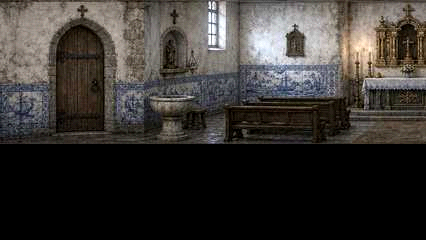
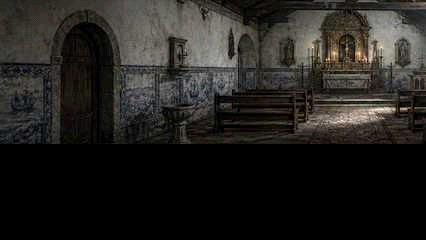
exp(#838): regenerate the remaining eight plates in the new art direction
Three grouped generations, not four -- the gate and the flat praca are
retired, so their groups are gone rather than left to rot.

Every door and every NPC is re-placed against what is actually painted:
Market Row's steps to the backstreet and its arched workshop door now sit
where the art puts them, and the weaponsmith no longer stands 0.86 from the
street's east end. The Quay's road out moved to its east end, because the
new art puts the water at the west -- the screen is a dead end at the water,
which is the point of it, and it was widened to 600 so the pub door is not
crowded against the road.

The Pub is the first screen with a real step across the walking line: the
tables are on the low floor by the door and the bar stands on a platform up
a short flight, so the floor profile authored earlier finally has art to
describe. Verified with the bounds overlay -- the player and the owner both
stand on the raised level.

One stale assertion fixed rather than papered over: the seam test asked the
Quay's WEST edge for a doorway, which the water end no longer has. It now
asserts both halves, including that the quay still runs out at the water.

diff --git a/tools/towngen/build_town.py b/tools/towngen/build_town.py
@@ -132,26 +132,26 @@ SCREENS = {
         id=18, title="St. Maria - Market Row", plate="market_bg.png",
         intro="Awnings sag with the morning's rain. Most of the stalls are already empty.",
         screen_y=136, music="town1",
-        npcs=[("auctioneer", "Auctioneer", "npc_auctioneer", 120),
-              ("yukio", "Yukio", "npc_yukio", 250),
-              ("euler", "Euler", "npc_euler", 430),
-              ("scholar", "Scholar", "npc_scholar", 560)],
+        npcs=[("auctioneer", "Auctioneer", "npc_auctioneer", 200),
+              ("yukio", "Yukio", "npc_yukio", 300),
+              ("euler", "Euler", "npc_euler", 350),
+              ("scholar", "Scholar", "npc_scholar", 640)],
         doors=[
             ("west_praca", "The Praca", 17, "east_market", 40, None),
-            ("back_steps", "The Backstreet", 26, "market_steps", 400, None),
-            ("smith_door", "Weaponsmith", 20, "exit_door", 690, None),
-            ("east_quay", "The Quay", 19, "west_market", 720, None),
+            ("back_steps", "The Backstreet", 26, "market_steps", 420, None),
+            ("smith_door", "Weaponsmith", 20, "exit_door", 555, None),
+            ("east_quay", "The Quay", 19, "market_road", 720, None),
         ],
     ),
     "quay": dict(
         id=19, title="St. Maria - The Quay", plate="quay_bg.png",
         intro="The town ends at the water. The fog does not.",
         screen_y=136, music="town1",
-        npcs=[("sign", "Sign", None, 110),
-              ("fisherman", None, "npc_fisherman", 380)],
+        npcs=[("fisherman", None, "npc_fisherman", 150),
+              ("sign", "Sign", None, 330)],
         doors=[
-            ("west_market", "Market Row", 18, "east_quay", 40, None),
-            ("pub_door", "The Pub", 21, "exit_door", 265, None),
+            ("pub_door", "The Pub", 21, "exit_door", 442, None),
+            ("market_road", "Market Row", 18, "east_quay", 560, None),
         ],
     ),
     "backstreet": dict(
@@ -175,34 +175,38 @@ SCREENS = {
         intro="The forge is banked low. Everything in the room is either iron or waiting to be.",
         screen_y=136, music="town1",
         npcs=[("smith", "Weapon Shop", "npc_weaponsmith", 300)],
-        doors=[("exit_door", "Out to Market Row", 18, "smith_door", 95, None)],
+        doors=[("exit_door", "Out to Market Row", 18, "smith_door", 140, None)],
     ),
     "pub": dict(
         id=21, title="St. Maria - The Pub", plate="pub_bg.png",
         intro="Warm, low and smoke-dark. The only room in St. Maria that argues with the weather.",
         screen_y=136, music="town1",
-        npcs=[("owner", "Pub Owner", "npc_pub_owner", 280)],
+        # The one screen with a real step across the walking line: the tables
+        # are on the low floor by the door, and the bar stands on a platform
+        # up a short flight. Measured off the plate.
+        ground=[(0, 0), (290, 0), (335, 22), (426, 22)],
+        npcs=[("owner", "Pub Owner", "npc_pub_owner", 370)],
         doors=[("exit_door", "Out to the Quay", 19, "pub_door", 100, None)],
     ),
     "chapel": dict(
         id=22, title="St. Maria - Chapel", plate="chapel_bg.png",
         intro="Blue tiles, cold wax, and a door that is never locked.",
         screen_y=136, music="town1",
-        npcs=[("agnes", "EV012", "npc_agnes", 250)],
-        doors=[("exit_door", "Out to the Praca", 17, "chapel_door", 78, None)],
+        npcs=[("agnes", "EV012", "npc_agnes", 330)],
+        doors=[("exit_door", "Out to the Praca", 17, "chapel_door", 90, None)],
     ),
     "house_laura": dict(
         id=23, title="St. Maria - Laura's House", plate="house_laura_bg.png",
         intro="A hearth, a scrubbed table, and more tools than a kitchen needs.",
         screen_y=136, music="town1",
         npcs=[("laura", "Laura", "npc_laura", 300)],
-        doors=[("exit_door", "Out to the Praca", 17, "laura_door", 58, None)],
+        doors=[("exit_door", "Out to the Praca", 17, "laura_door", 95, None)],
     ),
     "house_alicia": dict(
         id=24, title="St. Maria - Alicia's Room", plate="house_alicia_bg.png",
         intro="A narrow bed, a desk of papers, and the balcony door left open to the grey.",
         screen_y=136, music="town1",
-        npcs=[("alicia", "Alicia", "npc_alicia", 300)],
+        npcs=[("alicia", "Alicia", "npc_alicia", 205)],
         doors=[("exit_door", "Out to the Praca", 17, "alicia_door", 58, None)],
     ),
     # The opening cinematic ends in a rented room ("PASSAGE HOUSE - ROOM 3",
@@ -213,7 +217,7 @@ SCREENS = {
         intro="Two beds, a washstand, and a window that does not close properly. It is paid for until spring.",
         screen_y=136, music="town1",
         npcs=[],
-        doors=[("exit_door", "Out to the Backstreet", 26, "lodging_door", 58, None)],
+        doors=[("exit_door", "Out to the Backstreet", 26, "lodging_door", 78, None)],
     ),
 }
 

diff --git a/tools/towngen/generate_plates.py b/tools/towngen/generate_plates.py
@@ -52,7 +52,7 @@ WIDTHS = {
     "praca": 880,        # the heart of the town: four doors, the fountain, most of its life
     "market": 760,       # commerce, and the largest cast
     "gate": 600,         # a threshold, entered and left rather than lived in
-    "quay": 470,         # where the town runs out; short on purpose
+    "quay": 600,         # the town runs out at the water; wide enough to separate the pub from the road
     "weaponsmith": 426, "pub": 426, "chapel": 426,
     "house_laura": 426, "house_alicia": 426, "lodging": 426,
 }
@@ -136,12 +136,17 @@ BEATS = {
     "praca": "the village praca: an open square of wet granite cobbles around a low octagonal stone "
              "fountain, closed by two-storey townhouses with iron balconies and hanging laundry, a "
              "stone bench, a notice post, terracotta pots of geraniums, and several deep doorways",
-    "market": "a market row under long sagging canvas awnings strung between the housefronts, with "
-              "empty wooden trestle stalls, stacked crates, hanging scales, baskets, coils of rope and "
-              "barrels of salt fish, and a deep arched doorway into a workshop",
-    "quay": "the low end of the town where it meets the water: a stone quay wall with mooring rings "
-            "and bollards, grey estuary water and sea fog to one side, a pub front with a warm lit "
-            "window and a small chapel door under deep stone lintels, nets and lobster pots",
+    "market": "a market row seen down its length so the housefronts recede: long sagging canvas "
+              "awnings strung overhead between the buildings, empty wooden trestle stalls, stacked "
+              "crates, barrels of salt fish, hanging scales and coils of rope. A loaded handcart "
+              "stands close to the lens at one edge, cutting into the frame. Halfway along, worn "
+              "stone steps climb between two houses into a narrow back lane, and a deep arched "
+              "doorway opens into a workshop. Beyond the far end the street falls toward pale water",
+    "quay": "the low end of the town where it meets the water, the quay wall running away from the "
+            "lens in perspective: mooring rings and iron bollards, nets and lobster pots stacked "
+            "along it, grey estuary water and heavy sea fog beyond. A capstan and a stack of crab "
+            "pots stand close to the lens at one edge. A pub front with a warm lit window sits back "
+            "from the water up two worn steps, and the cobbles slope down toward a slipway",
     "weaponsmith": "the interior of a village weaponsmith, the camera standing inside the room looking into it so the back wall and both side walls are visible: a stone forge with "
                    "banked orange coals, an anvil, racked blades and billhooks on the rear wall, a "
                    "heavy workbench, leather aprons on pegs, and a plain timber door in the left wall",
@@ -171,15 +176,16 @@ BEATS = {
 # below are placeholders pending art-direction references.
 GROUPS = {
     "layout_b": ("3072x1024", ["churchyard", "backstreet", "praca_stair"]),
-    "exteriors_a": ("3072x1024", ["praca", "market"]),
-    "exteriors_b": ("3072x1024", ["gate", "quay"]),
+    # The gate and the flat praca are retired -- map 16 is the churchyard
+    # now -- so their groups are gone rather than left to rot.
+    "exteriors_c": ("3072x1024", ["market", "quay"]),
     "interiors_a": ("1536x1024", ["weaponsmith", "pub", "chapel"]),
     "interiors_b": ("1536x1024", ["house_laura", "house_alicia", "lodging"]),
 }
 
 
 # Groups excluded from a bare run because their art direction is not settled.
-PENDING = {"layout_b"}
+PENDING = set()
 
 
 def group_prompt(keys):

diff --git a/docs/design/st-maria-town-screens.md b/docs/design/st-maria-town-screens.md
@@ -107,58 +107,63 @@ spawn point.
 Every one of these was copied verbatim by event name from the original map 1,
 so the town's *content* is the existing town's content; only its shape is new.
 
-## Planned re-shape: the raised churchyard
+## The re-shape, as built
 
-Chosen 2026-08-23. The town as built is one continuous line, and the Labyrinth
-gate sits at the west end of it, which makes the most important thing in St.
-Maria read as the least. The re-shape fixes both.
+The town was one continuous line with the Labyrinth gate at the west end of
+it, which made the most important thing in St. Maria read as the least.
 
 ```
-              [ Churchyard · Labyrinth ]
-                       ↑ steps
-  [ Quay ] === [ Praça ] === [ Market Row ]
-                       ↑ alley        ↓ steps
-                  [ Backstreet ] ————————┘
+              [ Churchyard 16 · Labyrinth ]
+                       ↑ stair
+  [ Praça 17 ] === [ Market Row 18 ] === [ Quay 19 ]
+        ↓ alley            ↑ steps
+  [ Backstreet 26 ] ───────────┘
 ```
 
-Three changes:
+Map 16 is the Churchyard: a terrace above the rooftops holding the sealed
+door, reached by climbing the stair in the middle of the square. An alley off
+the Praça opens into the Backstreet (map 26), which drops by steps into Market
+Row, so the town loops. The rented room the game opens in now has a door off
+the Backstreet, which is the only reason a player can ever return to it.
 
-1. **The gate becomes a place.** The Praça keeps its role as the social hub,
-   but a broad stone stair rises from its centre to a separate Churchyard
-   screen holding the sealed door, above the town. You climb to reach the thing
-   the town is afraid of.
-2. **The town loops.** An alley off the Praça leads up into a Backstreet — the
-   poorer side, laundry and back doors — which drops by steps into Market Row.
-   A loop is what stops a town reading as a corridor.
-3. **Map 16 is retired.** The Gate screen's job moves to the Churchyard.
+Both new connections are ordinary doors. UP was already the door verb, so
+branching cost nothing beyond art.
 
-Both new connections are ordinary doors: an alley is a door, and the engine
-already treats UP as the door verb, so branching costs nothing beyond art.
+## Art direction
 
-Height variance is the point of the two step transitions. Now that a lane
-carries an authored floor profile, the stair out of the Praça and the drop into
-Market Row are floor shape rather than screen transitions — you walk them.
+Rebuilt from reference frames on 2026-08-23. The previous prompt asked for
+*flat side elevation, camera exactly perpendicular, no vanishing-point
+perspective*, which is why the plates read as elevations rather than as
+pre-rendered scenes. It now asks for a fixed lens turned a few degrees off
+square, depth staged in three planes with a dark foreground occluder, ground
+that changes level, and blown highlights against near-black shadow. Interiors
+are looked *into* rather than cut away.
 
-**Blocked on art direction.** The generation group is authored as `layout_b` in
-`tools/towngen/generate_plates.py` but excluded from a default run, because the
-current plates read as flat elevations rather than pre-rendered scenes.
-Perspective, depth and composition are being revised against references before
-the group is generated.
+The picture pipeline is three stages, in the order a console applied them:
+
+1. **Grade** (`ps1_filter.grade`) — an offline render arrives sitting in its
+   midtones. Pulling the white point down makes highlights clip rather than
+   roll off, which is what makes a window read as daylight.
+2. **MDEC** — a DCT codec with half-resolution chroma. The ringing around
+   lintels and the blockiness in flat plaster.
+3. **RGB555 with an ordered dither** — 32 levels per channel, dithered before
+   truncation so smooth things crosshatch instead of banding.
+
+Applied to the world strip only; the dock band below it is a hard black the
+DCT would smear into the ground line.
 
 ## Known gaps
 
-These are recorded rather than fixed, because each is a design decision rather
-than a defect to clear.
-
-1. **Passage House 25 has no inbound door.** Only the opening cinematic loads
-   it, and its exit lands on the Praça's `west_gate` anchor — the gate door,
-   not a lodging door. Once you leave, you cannot return.
-2. **Doorway anchors have drifted from the painted art.** The anchors were
-   derived from pixel positions when `build_town.py` first ran; the plates were
-   re-spliced afterwards with per-screen crop anchors. Turn on
-   *Developer → TOWN BOUNDS* to see the reach bands against the doors.
-3. **No foreground occlusion.** The `foregrounds` layer is a transparent PNG on
-   every screen, so an actor never passes behind anything.
-4. **A flat plate cannot be relit**, so there is no day/night or weather.
-5. **Maps 20–24 all share the lane 0–10** and a 426px plate. Interiors are
-   currently uniform in a way exteriors deliberately are not.
+1. **The Churchyard's way down is a door, not a staircase.** Its art puts the
+   steps into depth rather than across the lane, so the exit is a doorway near
+   the west end with nothing painted under it.
+2. **The Praça is 1000px with six doorways on it** — about four Classic
+   screens of walking. It should be the widest place in town, but there may be
+   too much square between destinations.
+3. **Only the Pub has a floor profile.** Every other plate changes level into
+   depth rather than across the walking line. The Pub's ramp approximates step
+   nosings that run in perspective.
+4. **No foreground occlusion.** The art now composes a dark object close to the
+   lens, but `foregrounds` is still a transparent PNG, so an actor walks in
+   front of the handcart instead of behind it.
+5. **A flat plate cannot be relit**, so there is no day/night or weather.
